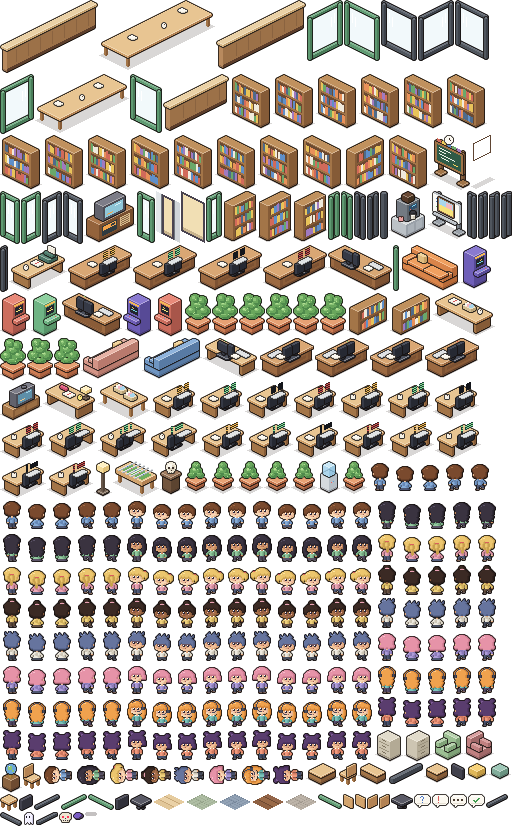
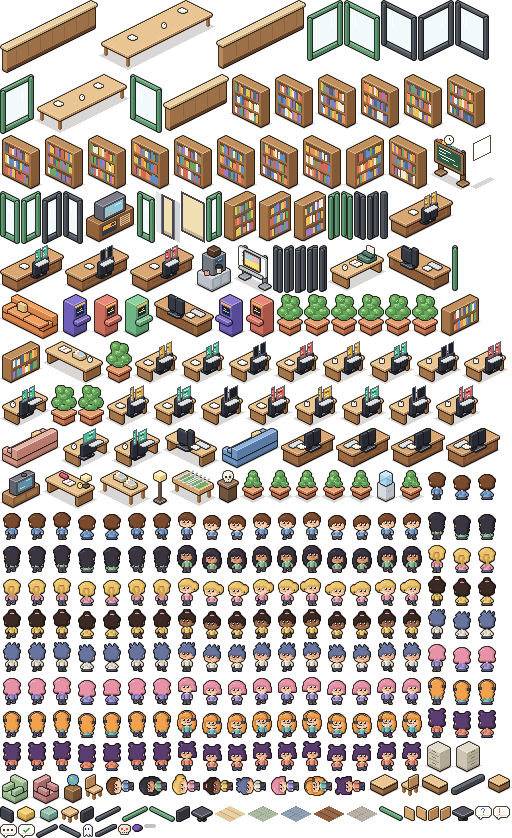
Refaz os monitores das mesas e corrige a tela da moldura de rotinas no hover
Monitores: moldura, tela clara com linhas de código por estado, mais altos
(setups do Agent Office original: dois, ultrawide, principal + vertical).
Hover: a janela e a tela do totem só existiam no cache; refazer a caixa
a partir da base apagava a tela e deixava a moldura vazia. Agora são
repintadas junto, com o brilho do hover.

diff --git a/src/renderer/src/world2d/renderer.ts b/src/renderer/src/world2d/renderer.ts
@@ -205,6 +205,8 @@ export class Renderer2d {
   private extras: Extra[] = []
   private shown = new Map<string, { sig: string; area: Rect }>()
   private totemCanvas = document.createElement('canvas')
+  /** Painted over the base in the cache (window glass, routines screen): a redraw of a box has to put them back. */
+  private wallArt: { sp: Sprite; box: Rect; act?: string }[] = []
   private hoverBox: Rect | null = null
   private highlight: string | null = null
   private screenKey = ''
@@ -487,10 +489,13 @@ export class Renderer2d {
     this.cache.height = ch
     const c = this.cctx
     c.drawImage(this.baseOf(view), 0, 0)
+    this.wallArt = []
     if (view.floor.kind === 'casa') {
       const glass = this.windowGlass(view.floor.layout)
-      c.drawImage(glass.img, glass.x, glass.y)
-      this.put(c, this.totemScreen(view))
+      for (const [sp, act] of [[{ f: 'window/glass', x: glass.x, y: glass.y, img: glass.img }, undefined], [this.totemScreen(view), 'totem']] as const) {
+        this.wallArt.push({ sp, box: this.bounds([sp]), act })
+        this.put(c, sp)
+      }
     }
     for (const item of this.items) for (const sp of item.sprites) this.put(c, sp)
     this.shades(c, view)
@@ -685,6 +690,12 @@ export class Renderer2d {
           f.drawImage(base, ...hot.box, ...hot.box)
           f.filter = 'none'
         }
+    for (const a of this.wallArt)
+      if (hits(a.box, r)) {
+        if (lit && a.act === lit) f.filter = LIT
+        this.put(f, a.sp)
+        f.filter = 'none'
+      }
     for (const e of this.extras) if (e.under && hits(e.area, r)) e.draw(f)
     for (const item of depthSort(items)) {
       if (lit && item.act === lit) f.filter = LIT

diff --git a/scripts/pixel-art/furn.py b/scripts/pixel-art/furn.py
@@ -33,19 +33,25 @@ def desk(L, x, y, w=30, d=14, h=12, col=WOOD, leg=WOODD):
 
 
 PANEL = T('4a4f5c', '363a46', '262932')
-# per state: screen background, accent lines and the power LED on the back
-_SCREEN = {'green': (H('1b3b3a'), GREEN, H('7be07f')), 'amber': (H('3b2f1e'), AMBER, H('f4bb55')),
-           'red': (H('3b1f24'), H('d0504a'), H('ff5a4a')), 'off': (H('14161b'), None, H('6b6f73'))}
-# lateral start, width, bottom z (above the desk) and height of each panel, per variant
-_PANELS = [[(0, 7, 3, 9), (7, 7, 3, 9)],                  # two monitors side by side
-           [(0, 4, 3, 7), (4, 6, 3, 9), (10, 4, 3, 7)],   # a main monitor with one on each side
-           [(0, 10, 4, 7), (10, 4, 3, 10)]]               # ultrawide and a vertical one
+BEZEL = H('5b6173')
+# per state: screen background, the code lines on it (bright first) and the power LED on the back
+_SCREEN = {'green': (H('4cb892'), [H('e4fbe0'), H('1d5a4a'), H('b9efc4')], H('7be07f')),
+           'amber': (H('d9a441'), [H('fff0c4'), H('6b4a14'), H('ffe08a')], H('f4bb55')),
+           'red': (H('d0605a'), [H('ffd8d4'), H('6e1f24'), H('f6a8a2')], H('ff5a4a')),
+           'off': (H('1c1f26'), None, H('6b6f73'))}
+# lateral start, width, bottom z (above the desk) and height of each panel, per variant: two monitors,
+# an ultrawide, a main monitor with a vertical one (the setups of the original office)
+_PANELS = [[(0, 6, 3, 12), (7, 6, 3, 12)],
+           [(0, 13, 4, 10)],
+           [(0, 9, 3, 11), (10, 4, 3, 15)]]
+# the code on a screen: indent and length of each line (cut to the panel's width)
+_CODE = [(0, 5), (1, 4), (2, 5), (1, 3), (0, 4), (2, 3)]
 
 
 def crt(L, x, y, z, face='+y', screen='green', variant=None):
     """modern workstation, a row of flat monitors ~14 wide on a thin stand. (x,y) = footprint corner
     (14x10, or 10x14 for +x/-x). The back of the monitors (face -y/-x) shows the power LED of the state."""
-    bg, accent, led = _SCREEN[screen]
+    bg, lines, led = _SCREEN[screen]
     if variant is None:
         variant = (x * 7 + y * 13) % len(_PANELS)
     along_x = face in ('+y', '-y')
@@ -73,10 +79,13 @@ def crt(L, x, y, z, face='+y', screen='green', variant=None):
         box(u0 + w // 2 - 1, 8, 1, 2, 2, zb, PANEL)  # neck
         box(u0, 8, zb, w, 2, h, PANEL)
         if face in ('+y', '+x'):
+            L.begin(); plane(u0, u0 + w, zb, zb + h, BEZEL); L.end(False)
             L.begin(); plane(u0 + 1, u0 + w - 1, zb + 1, zb + h - 1, bg); L.end(False)
-            if accent:
+            if lines:
                 for i, zz in enumerate(range(zb + h - 3, zb + 1, -2)):
-                    plane(u0 + 1, u0 + w - 1 - i % 2, zz, zz + 1, accent)
+                    ind, ln = _CODE[(i + u0) % len(_CODE)]
+                    a0, a1 = u0 + 1 + min(ind, w - 4), u0 + 1 + min(ind + ln, w - 3)
+                    plane(a0 + 1, a1 + 1, zz, zz + 1, lines[(i + u0) % len(lines)])
     if face == '-y':
         L.dot(*[int(v) for v in L.P(x + 7, y + 2, z + 4)], led)
     elif face == '-x':
